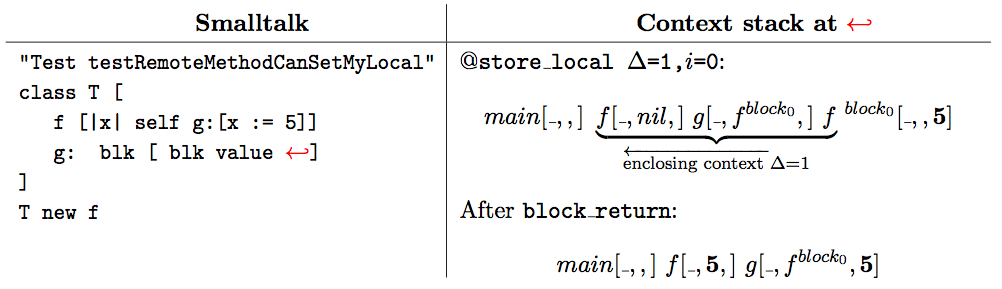
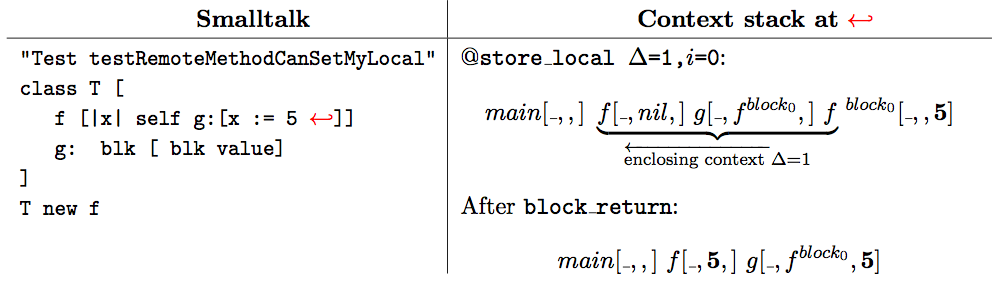
update smalltalk project

diff --git a/projects/bytecode.tex b/projects/bytecode.tex
@@ -10,7 +10,7 @@
 \usepackage{color}
 \usepackage{drawstack}
 \usepackage{tikz}
-\usetikzlibrary{shapes,arrows,shapes.multipart}
+\usetikzlibrary{shapes,arrows,shapes.multipart,backgrounds,calc,positioning}
 \DeclareGraphicsRule{.tif}{png}{.png}{`convert #1 `dirname #1`/`basename #1 .tif`.png}
 \newcommand{\sbt}{\,\begin{picture}(-1,1)(-1,-3)\circle*{3}\end{picture}\ }
 \newcommand{\ith}{$i^{th}$}
@@ -202,8 +202,8 @@ main[\_,nil,\_]~f\verb=-=block0[\_,,]
 {\tt\small
 "Test testRemoteMethodCanSetMyLocal"\\
 class T [\\
-\mbox{~~}    f [|x| self g:[x := 5]]\\
-\mbox{~~}    g: blk [ blk value {\color{red}$\hookleftarrow$}]\\
+\mbox{~~}    f [|x| self g:[x := 5 {\color{red}$\hookleftarrow$}]]\\
+\mbox{~~}    g: blk [ blk value]\\
 ]\\
 T new f
 }\\
@@ -300,23 +300,36 @@ class T [\\
 T new f:\,nil pass:\,1\\
 }\\
 \end{minipage} &
-\begin{minipage}[t]{0.5\linewidth}
+\begin{minipage}[t]{0.6\linewidth}
 At {\tt store\_local $\Delta$=2,$i$=2}:\\
-\begin{tikzpicture}
-  \small  \cell{$\text{\em f:pass:}^{block_1}[\_,,5]$}
-  \cell{$\text{\em f:pass:}^{block_2}[\_,,]$}
-  \cell{$~~~~\text{\em f:pass:}[\_,\text{\em f:pass:}^{block_1}\,2\,nil,]~~~~$}\cellptr{$2^{nd}$ call to {\em f:pass:}}
-  \cell{$g[\_,\text{\em f:pass:}^{block_1},]$}
-  \cell{$\text{\em f:pass:}^{block_0}[\_,f^{block_0},]$}
-  \cell{$\text{\em f:pass:}[\_,nil\,1\,5,]$} \cellptr{$1^{st}$ call to {\em f:pass:}}
-  \cell{$main[\_,,]$}
+\begin{center}
+\begin{tikzpicture}[
+block/.style={
+draw,
+fill=white,
+rectangle, 
+text width={4.3cm},
+align=center,
+font=\small}]
+%  MainClass>>main[][], T>>f:pass:[nil, 1, 5][], T>>f:pass:-block0[][], T>>g:[f:pass:-block1][], T>>f:pass:[f:pass:-block1, 2, nil][], T>>f:pass:-block2[][], T>>f:pass:-block1[][5]
+
+%listed with the top of the stack first, but drawn with top of the stack on the bottom
+\node[block](a){$\text{\em f:pass:}^{block_1}[\_,,5]$};
+\node[block,above=0.1cm of a](b){$\text{\em f:pass:}^{block_2}[\_,,]$};
+\node[block,above=0.1cm of b](c){$\text{\em f:pass:}[\_,\text{\em f:pass:}^{block_1}\,2\,nil,]$};
+\node[block,above=0.1cm of c](d){$g[\_,\text{\em f:pass:}^{block_1},]$};
+\node[block,above=0.1cm of d](e){$\text{\em f:pass:}^{block_0}[\_,,]$};
+\node[block,above=0.1cm of e](f){$\text{\em f:pass:}[\_,nil\,1\,5,]$};
+\node[block,above=0.1cm of f](g){$main[\_,,]$};
+
+\node[draw=none,,below=0.1cm of a]{Stack};
+\draw[-latex] (a.east) -- ++(5mm,0) |- (e.east);
+\draw[-latex] ($(e.east)+(0,.1)$) -- ++(5mm,0) |- ($(f.east)$);
 \end{tikzpicture}
-{\em Notes}:
+\end{center}
+{\em Notes}:  The enclosing block of {\tt [x:=5]} (called $\text{\em f:pass:}^{block_1}$) is {\tt [self g:[x:=5]]} (called $\text{\em f:pass:}^{block_0}$). The enclosing block of $\text{\em f:pass:}^{block_0}$ is the first call, not the second call, to $\text{\em f:pass:}$.
 \end{minipage} \\
 \end{tabular}
-
-
-
 
 %------------CODE GEN---------------------
 
